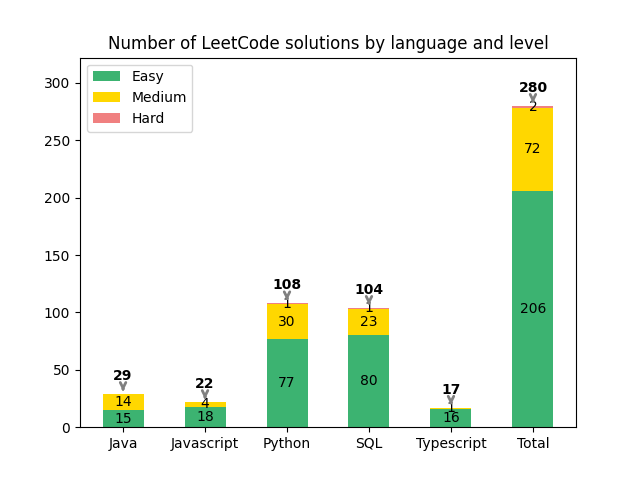
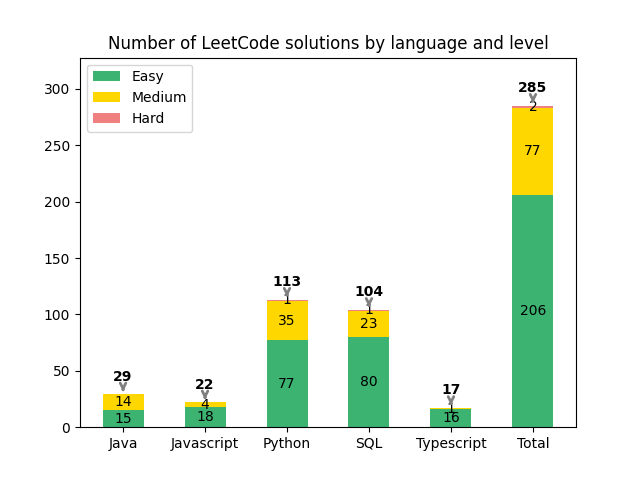
[auto] update README and move solution files (R.N: 13)
Push commit: 56bed042002f76b0909d10639e18939570748f36

Files moved: 5

Workflow: Auto-update README and move newly added solution files during PR checks

Triggered on: pull_request

Run Link: https://github.com/e0406370/reetkode/actions/runs/16671037082

diff --git a/README.md b/README.md
@@ -46,6 +46,7 @@ The following diagram illustrates the action flow of using these [scripts](scrip
 |**196**|🟩 Easy|🛢|[Delete Duplicate Emails](https://lcid.cc/196)|<a href="sql/lce_p0196_delete_duplicate_emails_postgresql.sql"><img src=".github/icons/postgresql-original.svg" height="25"></a> <a href="sql/lce_p0196_delete_duplicate_emails_sqlserver.sql"><img src=".github/icons/sqlserver-original.svg" height="25"></a>|
 |**197**|🟩 Easy|🛢|[Rising Temperature](https://lcid.cc/197)|<a href="sql/lce_p0197_rising_temperature_mysql.sql"><img src=".github/icons/mysql-original.svg" height="25"></a> <a href="sql/lce_p0197_rising_temperature_postgresql.sql"><img src=".github/icons/postgresql-original.svg" height="25"></a>|
 |**217**|🟩 Easy|⚙|[Contains Duplicate](https://lcid.cc/217)|<a href="java/lce_p0217_contains_duplicate.java"><img src=".github/icons/java-original.svg" height="25"></a>|
+|**230**|🟨 Medium|⚙|[Kth Smallest Element In A Bst](https://lcid.cc/230)|<a href="python/lcm_p0230_kth_smallest_element_in_a_bst.py"><img src=".github/icons/python-original.svg" height="25"></a>|
 |**238**|🟨 Medium|⚙|[Product Of Array Except Self](https://lcid.cc/238)|<a href="java/lcm_p0238_product_of_array_except_self.java"><img src=".github/icons/java-original.svg" height="25"></a> <a href="python/lcm_p0238_product_of_array_except_self.py"><img src=".github/icons/python-original.svg" height="25"></a>|
 |**242**|🟩 Easy|⚙|[Valid Anagram](https://lcid.cc/242)|<a href="java/lce_p0242_valid_anagram.java"><img src=".github/icons/java-original.svg" height="25"></a> <a href="python/lce_p0242_valid_anagram.py"><img src=".github/icons/python-original.svg" height="25"></a>|
 |**271**|🟨 Medium|⚙|[Encode And Decode Strings](https://lcid.cc/271)|<a href="java/lcm_p0271_encode_and_decode_strings.java"><img src=".github/icons/java-original.svg" height="25"></a>|
@@ -53,6 +54,7 @@ The following diagram illustrates the action flow of using these [scripts](scrip
 |**334**|🟨 Medium|⚙|[Increasing Triplet Subsequence](https://lcid.cc/334)|<a href="python/lcm_p0334_increasing_triplet_subsequence.py"><img src=".github/icons/python-original.svg" height="25"></a>|
 |**345**|🟩 Easy|⚙|[Reverse Vowels Of A String](https://lcid.cc/345)|<a href="python/lce_p0345_reverse_vowels_of_a_string.py"><img src=".github/icons/python-original.svg" height="25"></a>|
 |**347**|🟨 Medium|⚙|[Top K Frequent Elements](https://lcid.cc/347)|<a href="java/lcm_p0347_top_k_frequent_elements.java"><img src=".github/icons/java-original.svg" height="25"></a>|
+|**366**|🟨 Medium|⚙|[Find Leaves Of Binary Tree](https://lcid.cc/366)|<a href="python/lcm_p0366_find_leaves_of_binary_tree.py"><img src=".github/icons/python-original.svg" height="25"></a>|
 |**387**|🟩 Easy|⚙|[First Unique Character String](https://lcid.cc/387)|<a href="python/lce_p0387_first_unique_character_string.py"><img src=".github/icons/python-original.svg" height="25"></a>|
 |**389**|🟩 Easy|⚙|[Find The Difference](https://lcid.cc/389)|<a href="python/lce_p0389_find_the_difference.py"><img src=".github/icons/python-original.svg" height="25"></a>|
 |**392**|🟩 Easy|⚙|[Is Subsequence](https://lcid.cc/392)|<a href="python/lce_p0392_is_subsequence.py"><img src=".github/icons/python-original.svg" height="25"></a>|
@@ -176,6 +178,7 @@ The following diagram illustrates the action flow of using these [scripts](scrip
 |**1978**|🟩 Easy|🛢|[Employees Whose Manager Left The Company](https://lcid.cc/1978)|<a href="sql/lce_p1978_employees_whose_manager_left_the_company_sqlserver.sql"><img src=".github/icons/sqlserver-original.svg" height="25"></a>|
 |**1995**|🟩 Easy|⚙|[Count Special Quadruplets](https://lcid.cc/1995)|<a href="python/lce_p1995_count_special_quadruplets.py"><img src=".github/icons/python-original.svg" height="25"></a>|
 |**2042**|🟩 Easy|⚙|[Check If Numbers Are Ascending In A Sentence](https://lcid.cc/2042)|<a href="python/lce_p2042_check_if_numbers_are_ascending_in_a_sentence.py"><img src=".github/icons/python-original.svg" height="25"></a>|
+|**2044**|🟨 Medium|⚙|[Count Number Of Maximum Bitwise-or Subsets](https://lcid.cc/2044)|<a href="python/lcm_p2044_count_number_of_maximum_bitwise-or_subsets.py"><img src=".github/icons/python-original.svg" height="25"></a>|
 |**2073**|🟩 Easy|⚙|[Time Needed To Buy Tickets](https://lcid.cc/2073)|<a href="python/lce_p2073_time_needed_to_buy_tickets.py"><img src=".github/icons/python-original.svg" height="25"></a>|
 |**2109**|🟨 Medium|⚙|[Adding Spaces To A String](https://lcid.cc/2109)|<a href="java/lcm_p2109_adding_spaces_to_a_string.java"><img src=".github/icons/java-original.svg" height="25"></a>|
 |**2124**|🟩 Easy|⚙|[Check If All As Appears Before All Bs](https://lcid.cc/2124)|<a href="python/lce_p2124_check_if_all_as_appears_before_all_bs.py"><img src=".github/icons/python-original.svg" height="25"></a>|
@@ -256,6 +259,8 @@ The following diagram illustrates the action flow of using these [scripts](scrip
 |**3536**|🟩 Easy|⚙|[Maximum Product Of Two Digits](https://lcid.cc/3536)|<a href="python/lce_p3536_maximum_product_of_two_digits.py"><img src=".github/icons/python-original.svg" height="25"></a>|
 |**3541**|🟩 Easy|⚙|[Find Most Frequent Vowel And Consonant](https://lcid.cc/3541)|<a href="python/lce_p3541_find_most_frequent_vowel_and_consonant.py"><img src=".github/icons/python-original.svg" height="25"></a>|
 |**3550**|🟩 Easy|⚙|[Smallest Index With Digit Sum Equal To Index](https://lcid.cc/3550)|<a href="python/lce_p3550_smallest_index_with_digit_sum_equal_to_index.py"><img src=".github/icons/python-original.svg" height="25"></a>|
+|**3616**|🟨 Medium|⚙|[Number Of Student Replacements](https://lcid.cc/3616)|<a href="python/lcm_p3616_number_of_student_replacements.py"><img src=".github/icons/python-original.svg" height="25"></a>|
+|**3631**|🟨 Medium|⚙|[Sort Threats By Severity And Exploitability](https://lcid.cc/3631)|<a href="python/lcm_p3631_sort_threats_by_severity_and_exploitability.py"><img src=".github/icons/python-original.svg" height="25"></a>|
 
 
 #### <div align="right"> [🔝Return to top](#reetkode) </div>
